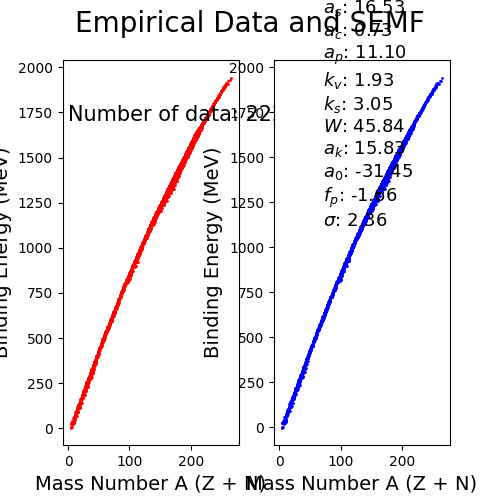
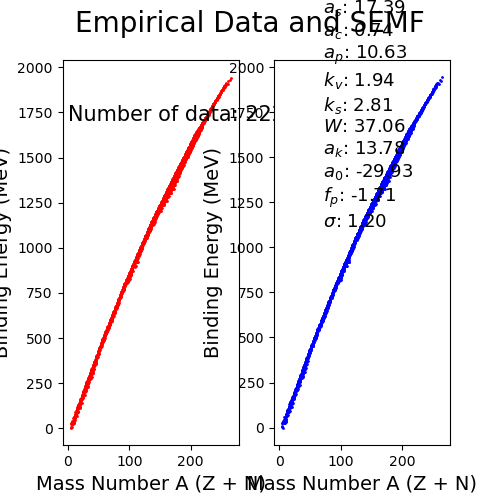
Shell Correction added

diff --git a/modules.py b/modules.py
@@ -2,45 +2,47 @@ import numpy as np
 from scipy.optimize import curve_fit
 import matplotlib.pyplot as plt
 
+# Define magic numbers
+MAGIC_NUMBERS = [2, 8, 20, 28, 50, 82, 126, 184]
+
+def count_valence_nucleons(N, Z):
+    """Calculate the valence nucleons for neutrons and protons."""
+    def valence(n, magic):
+        distances = np.array([min(np.abs(n - magic[i]), np.abs(n - magic[i + 1]))
+                              if i + 1 < len(magic) else np.inf for i in range(len(magic))])
+        return distances.min(axis=0)
+
+    nv = np.array([valence(n, MAGIC_NUMBERS) for n in np.atleast_1d(N)])
+    zv = np.array([valence(z, MAGIC_NUMBERS) for z in np.atleast_1d(Z)])
+    return nv, zv
 
 # Define the binding energy model
-def binding_energy(Z, N, av, as_, ac, ap, kv, ks, W, ak, a0, fp):
+def binding_energy(Z, N, av, as_, ac, ap, kv, ks, W, ak, a0, fp, b1, b2):
     A = Z + N  # Mass number
     I = (N - Z) / A  # Neutron-proton asymmetry
 
     # Volume term
     volume = av * (1 - kv * I**2) * A
     # Surface term
-    surface = -as_ * (1 - ks * I**2) * A**(2/3)
+    surface = -as_ * (1 - ks * I**2) * A**(2 / 3)
     # Coulomb term
-    coulomb = -ac * Z ** 2 / A ** (1/3)
-    # Pairing energy term (vectorized)
+    coulomb = -ac * Z**2 / A**(1 / 3)
+    # Pairing term
     pairing = np.zeros_like(A)
     pairing[(Z % 2 == 0) & (N % 2 == 0)] = ap / A[(Z % 2 == 0) & (N % 2 == 0)]**0.5  # Even Z, even N
     pairing[(Z % 2 == 1) & (N % 2 == 1)] = -ap / A[(Z % 2 == 1) & (N % 2 == 1)]**0.5  # Odd Z, odd N
-    # Wigner energy term
+    # Wigner term
     wigner = -W * np.abs(N - Z) / A
-    
-    curvature_energy = - ak * A ** (1/3)
+    # Curvature and higher-order terms
+    curvature = -ak * A**(1 / 3)
+    higher_order = -a0 * A**0
+    f_p = -fp * Z**2 / A
 
-    higher_order = - a0 * A ** 0
+    # Shell corrections
+    nv, zv = count_valence_nucleons(N, Z)
+    shell = b1 * (nv + zv) + b2 * (nv + zv)**2
 
-    f_p = - fp * Z**2 / A
-
-    return volume + surface + coulomb + pairing + wigner + curvature_energy + higher_order + f_p
-
-def binding_energy_only_5(Z, N, av, as_, ac, kv, ks):
-    A = Z + N  # Mass number
-    I = (N - Z) / A  # Neutron-proton asymmetry
-
-    # Volume term
-    volume = av * (1 - kv * I**2) * A
-    # Surface term
-    surface = -as_ * (1 - ks * I**2) * A**(2/3)
-    # Coulomb term
-    coulomb = -ac * Z ** 2 / A ** (1/3)
-    
-    return volume + surface + coulomb
+    return volume + surface + coulomb + pairing + wigner + curvature + higher_order + f_p + shell
 
 def standard_deviation(fit, data):
     sigma = 0

diff --git a/fitting.py b/fitting.py
@@ -3,7 +3,6 @@ from scipy.optimize import curve_fit
 import matplotlib.pyplot as plt
 from modules import binding_energy
 from modules import standard_deviation
-from modules import binding_energy_only_5
 import pandas as pd
 
 # Data
@@ -40,10 +39,11 @@ Bexp_data = Bexp_data[7:] * (N_data + Z_data) / 1000
 ZN_data = np.vstack((Z_data, N_data)).T
 
 # Perform the least-squares fit
-params_initial = [15, 17, 0.7, 11, 1.5, 1.0, 30, 20.0, -20.0, -1.0]  # Initial guesses for av, as_, ac, ap, kv, ks, W
-# params_initial = [15, 17, 0.001, 1.5, 1.0]  # Initial guesses for av, as_, ac, kv, ks
-params_opt, params_cov = curve_fit(lambda ZN, av, as_, ac, ap, kv, ks, W, ak, a0, fp
-                                   : binding_energy(ZN[:, 0], ZN[:, 1], av, as_, ac, ap, kv, ks, W, ak, a0, fp), 
+params_initial = [15, 17, 0.7, 11, 1.5, 1.0, 30, 20.0, -20.0, -1.0, -2.0, 0.1]  # Initial guesses for av, as_, ac, ap, kv, ks, W
+
+
+params_opt, params_cov = curve_fit(lambda ZN, av, as_, ac, ap, kv, ks, W, ak, a0, fp, b1, b2
+                                   : binding_energy(ZN[:, 0], ZN[:, 1], av, as_, ac, ap, kv, ks, W, ak, a0, fp, b1, b2), 
                                    ZN_data, Bexp_data, p0=params_initial, maxfev = int(1e5), method = 'lm')
 # params_opt, params_cov = curve_fit(lambda ZN, av, as_, ac, kv, ks
 #                                    : binding_energy_only_5(ZN[:, 0], ZN[:, 1], av, as_, ac, kv, ks), 
@@ -64,6 +64,8 @@ print(f"W: {params_opt[6]}")
 print(f"ak: {params_opt[7]}")
 print(f"a0: {params_opt[8]}")
 print(f"fp: {params_opt[9]}")
+print(f'b1: {params_opt[10]}')
+print(f'b2: {params_opt[11]}')
 print(f"Standard Deviation: {sigma}")
 
 
